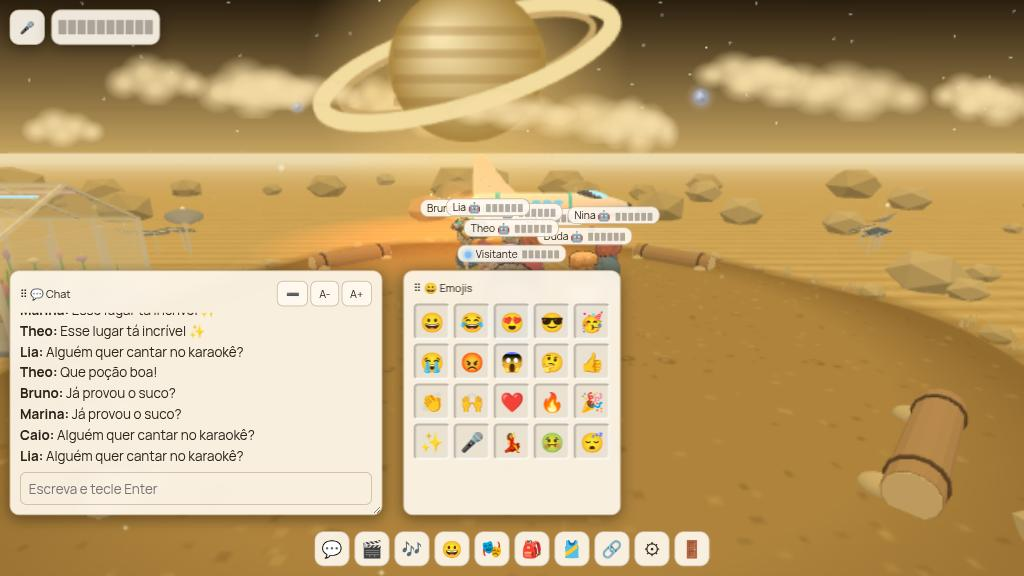
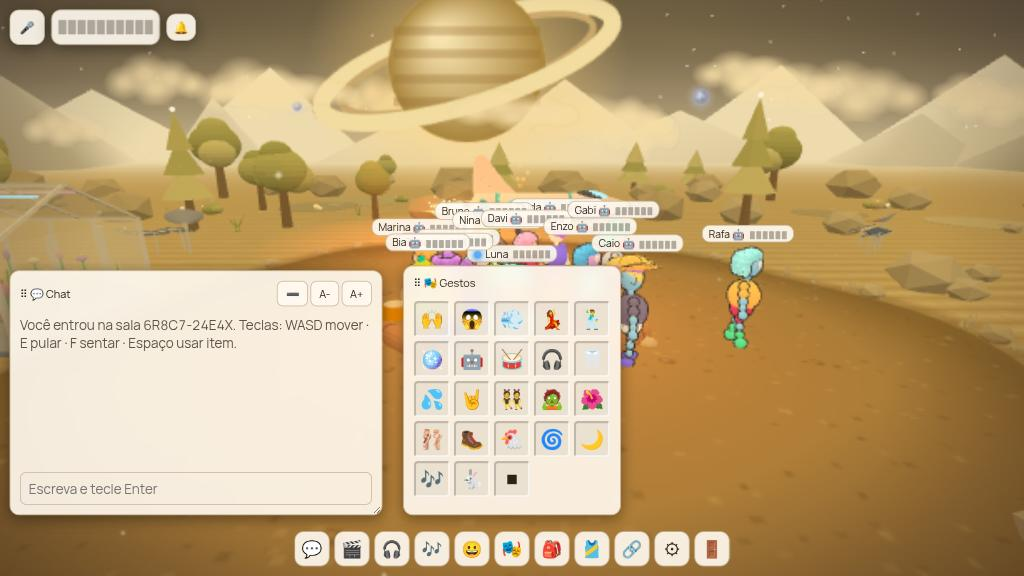
Tutorial atualizado: nome obrigatório, 20 bots, DJ e sino de notificações
- Dois quadros novos (DJ e sino 🔔) e textos revistos (nome obrigatório, 16 peles,
  até 20 bots com fala por palavras-chave, ganho automático, brilho do cenário).
- Capturas do tutorial refeitas com o visual atual.
- Teste do cliente exige as imagens do DJ e do sino.

diff --git a/index.html b/index.html
@@ -25,14 +25,16 @@
 <button id="tutX" class="tutX" type="button" aria-label="Fechar o tutorial">✕ Fechar</button>
 <header class="tutHead"><h2 id="tutTitle"><span>COMO</span> JOGAR!</h2><p>Guia em quadrinhos do Skyke3D · leia na ordem dos números</p></header>
 <div class="tutGrid">
-<figure class="pn p1"><div class="pic"><img src="/assets/tut-1.jpg" width="1024" height="576" loading="lazy" decoding="async" alt="Tela inicial com o editor de avatar: nome, estilo do cenário, cabelo e chapéu"><b class="sfx">NOVO!</b></div><figcaption><i class="num">1</i><p class="bal">Crie seu avatar! Escolha o <b>nome</b>, o <b>mundo</b> (são 16!) e o visual: rosto, pele, cabelo, chapéu e roupas. O 🎲 sorteia um visual.</p></figcaption></figure>
+<figure class="pn p1"><div class="pic"><img src="/assets/tut-1.jpg" width="1024" height="576" loading="lazy" decoding="async" alt="Tela inicial com o editor de avatar: nome, estilo do cenário, cabelo e chapéu"><b class="sfx">NOVO!</b></div><figcaption><i class="num">1</i><p class="bal">Crie seu avatar! Digite o seu <b>nome</b> (é obrigatório para entrar), escolha o <b>mundo</b> (são 16!) e o visual: rosto, 16 cores de pele (até azul e rosa!), 30 cabelos, chapéus e roupas. O 🎲 sorteia um visual.</p></figcaption></figure>
 <figure class="pn p2"><div class="pic"><img src="/assets/tut-2.jpg" width="1024" height="576" loading="lazy" decoding="async" alt="Avatar andando na sala com outros jogadores"><b class="sfx">BORA!</b></div><figcaption><i class="num">2</i><p class="bal">Toque em <b>Criar sala</b> (com até 20 bots para fazer companhia) ou digite o <b>código</b> de um amigo e clique em <b>Entrar</b>.</p><ul class="keys"><li><kbd>W</kbd><kbd>A</kbd><kbd>S</kbd><kbd>D</kbd> andar</li><li><kbd>E</kbd> pular</li><li><kbd>F</kbd> sentar</li><li><kbd>Espaço</kbd> usar item</li></ul><p class="note">No celular, use os botões na tela: ⤴ pular, 🪑 sentar, ✋ usar item.</p></figcaption></figure>
-<figure class="pn p3"><div class="pic"><img src="/assets/tut-3.jpg" width="1024" height="576" loading="lazy" decoding="async" alt="Chat da sala com mensagens e o microfone no canto da tela"><b class="sfx">BLÁ BLÁ!</b></div><figcaption><i class="num">3</i><p class="bal">Converse! Escreva no <b>💬 chat</b> e tecle Enter, ou fale por <b>voz</b> com quem estiver por perto. O 🎤 fica no canto da tela.</p></figcaption></figure>
+<figure class="pn p3"><div class="pic"><img src="/assets/tut-3.jpg" width="1024" height="576" loading="lazy" decoding="async" alt="Chat da sala com mensagens e o microfone no canto da tela"><b class="sfx">BLÁ BLÁ!</b></div><figcaption><i class="num">3</i><p class="bal">Converse! Escreva no <b>💬 chat</b> e tecle Enter, ou fale por <b>voz</b> com o 🎤 (o ganho automático já vem ligado). Os bots respondem a palavras como <i>oi</i>, <i>karaokê</i> ou <i>música</i>, um de cada vez.</p></figcaption></figure>
 <figure class="pn p4"><div class="pic"><img src="/assets/tut-4.jpg" width="1024" height="576" loading="lazy" decoding="async" alt="Painel de emojis aberto"><b class="sfx">UAU!</b></div><figcaption><i class="num">4</i><p class="bal">Reaja com <b>😀 emojis</b> que flutuam sobre a sua cabeça e dance ou acene com os <b>🎭 gestos</b>!</p></figcaption></figure>
 <figure class="pn p5"><div class="pic"><img src="/assets/tut-5.jpg" width="1024" height="576" loading="lazy" decoding="async" alt="Mochila aberta com poções, lanches e doces"><b class="sfx">NHAC!</b></div><figcaption><i class="num">5</i><p class="bal">Abra a <b>🎒 mochila</b>, pegue uma poção ou um lanche e use com a tecla <kbd>Espaço</kbd>. Para guardar, use <b>Guardar item</b>.</p></figcaption></figure>
 <figure class="pn p6"><div class="pic"><img src="/assets/tut-6.jpg" width="1024" height="576" loading="lazy" decoding="async" alt="Painel do karaokê da sala"><b class="sfx">LÁ LÁ LÁ~</b></div><figcaption><i class="num">6</i><p class="bal">Hora do <b>🎶 karaokê</b>! Cole o link de uma música do YouTube, entre na fila e cante no seu microfone. Um de cada vez!</p></figcaption></figure>
 <figure class="pn p7"><div class="pic"><img src="/assets/tut-7.jpg" width="1024" height="576" loading="lazy" decoding="async" alt="Painel de música e vídeo da sala"><b class="sfx">PLAY!</b></div><figcaption><i class="num">7</i><p class="bal">Assistam juntos! Em <b>🎬 Música/Vídeo</b>, cole um link do YouTube e clique em <b>Iniciar para todos</b>.</p></figcaption></figure>
-<figure class="pn p8"><figcaption><i class="num">8</i><p class="bal">Chame os amigos com o <b>🔗 convite</b> da sala. Ajuste volume, brilho e tamanho da interface em <b>⚙ Ajustes</b>. Para sair, use a <b>🚪 porta</b>.</p><button id="tutGo" class="iBtn play" type="button">▶ Jogar agora</button></figcaption></figure>
+<figure class="pn p8"><div class="pic"><img src="/assets/tut-8.jpg" width="1024" height="576" loading="lazy" decoding="async" alt="Painel DJ com o campo para colar o link da rádio"><b class="sfx">NO AR!</b></div><figcaption><i class="num">8</i><p class="bal">Vire <b>DJ</b> com o <b>🎧 botão da barra</b>: cole um link <b>https</b> de rádio (Icecast2/Shoutcast em MP3 ou AAC) e toque <b>para todos</b>. O áudio passa pelo servidor, então ninguém vê o endereço de quem ouve. Só começa quando você clica em <b>Ouvir</b>.</p></figcaption></figure>
+<figure class="pn p9"><div class="pic"><img src="/assets/tut-9.jpg" width="1024" height="576" loading="lazy" decoding="async" alt="Sino de notificações com convites guardados"><b class="sfx">PLIM!</b></div><figcaption><i class="num">9</i><p class="bal">Perdeu um convite? O <b>🔔 sino</b> (no topo, ao lado do microfone) guarda os convites de karaokê, vídeo e rádio que você não aceitou nem recusou em 20 segundos. Um sininho avisa quando chega um novo, e cada item some sozinho depois de 20 minutos.</p></figcaption></figure>
+<figure class="pn p10"><figcaption><i class="num">10</i><p class="bal">Chame os amigos com o <b>🔗 convite</b> da sala. Em <b>⚙ Ajustes</b> você muda o volume, o <b>brilho do cenário</b>, o tamanho da interface e os filtros do microfone. Para sair, use a <b>🚪 porta</b>.</p><button id="tutGo" class="iBtn play" type="button">▶ Jogar agora</button></figcaption></figure>
 </div></div></div>
 <div id="ui">
 <div id="start" class="p">

diff --git a/assets/app.css b/assets/app.css
@@ -282,17 +282,18 @@ button:disabled{opacity:.5;cursor:not-allowed}
 .keys{list-style:none;margin:12px 0 0;padding:0;display:grid;grid-template-columns:repeat(auto-fit,minmax(150px,1fr));gap:8px 10px;font-weight:800;font-size:.92em}
 .keys li{white-space:nowrap}
 .note{margin:10px 0 0;font-size:.85em;font-weight:700;opacity:.8}
-.p8{background:#ffd23e;justify-content:center}
-.p8 figcaption{display:flex;flex-direction:column;gap:14px;align-items:flex-start}
-.p8 .iBtn{align-self:center;box-shadow:4px 4px 0 #111;border:3px solid #111;color:#111;font-size:1.15em}
+.p10{background:#ffd23e;justify-content:center}
+.p10 figcaption{display:flex;flex-direction:column;gap:14px;align-items:flex-start}
+.p10 .iBtn{align-self:center;box-shadow:4px 4px 0 #111;border:3px solid #111;color:#111;font-size:1.15em}
 @media (min-width:760px){
  .tutGrid{grid-template-columns:repeat(12,1fr)}
  .p1{grid-column:span 7}.p2{grid-column:span 5}
  .p3,.p4,.p5{grid-column:span 4}
  .p6,.p7{grid-column:span 6}
- .p8{grid-column:span 12}
- .p8 figcaption{flex-direction:row;align-items:center;justify-content:space-between}
- .p8 .bal{flex:1}
+ .p8,.p9{grid-column:span 6}
+ .p10{grid-column:span 12}
+ .p10 figcaption{flex-direction:row;align-items:center;justify-content:space-between}
+ .p10 .bal{flex:1}
  .p2 .pic{aspect-ratio:16/10}
  .p1 .pic{flex:1;aspect-ratio:auto;min-height:220px}
  .p1 .pic img{position:absolute;inset:0}

diff --git a/assets.test.js b/assets.test.js
@@ -68,7 +68,7 @@ test('cliente: HTML sem CSS/JS inline, apontando para assets/ que existem', () =
   const refs = all.filter(n => /\.(css|js)$/.test(n));
   assert.deepStrictEqual(refs, ['app.css', 'app.js', 'intro.js']);
   const imgs = all.filter(n => /\.jpg$/.test(n));
-  assert.ok(imgs.length >= 7, 'tutorial em quadrinhos com suas imagens');
+  assert.ok(imgs.length >= 9, 'tutorial em quadrinhos com suas imagens (inclui DJ e sino)');
   for (const n of imgs) assert.ok(fs.statSync(path.join(__dirname, 'assets', n)).size > 0, n);
   for (const r of refs) assert.ok(fs.statSync(path.join(__dirname, 'assets', r)).size > 0, r);
   assert.ok(html.indexOf('/assets/app.js') < html.indexOf('/assets/intro.js'), 'ordem dos scripts preservada');
